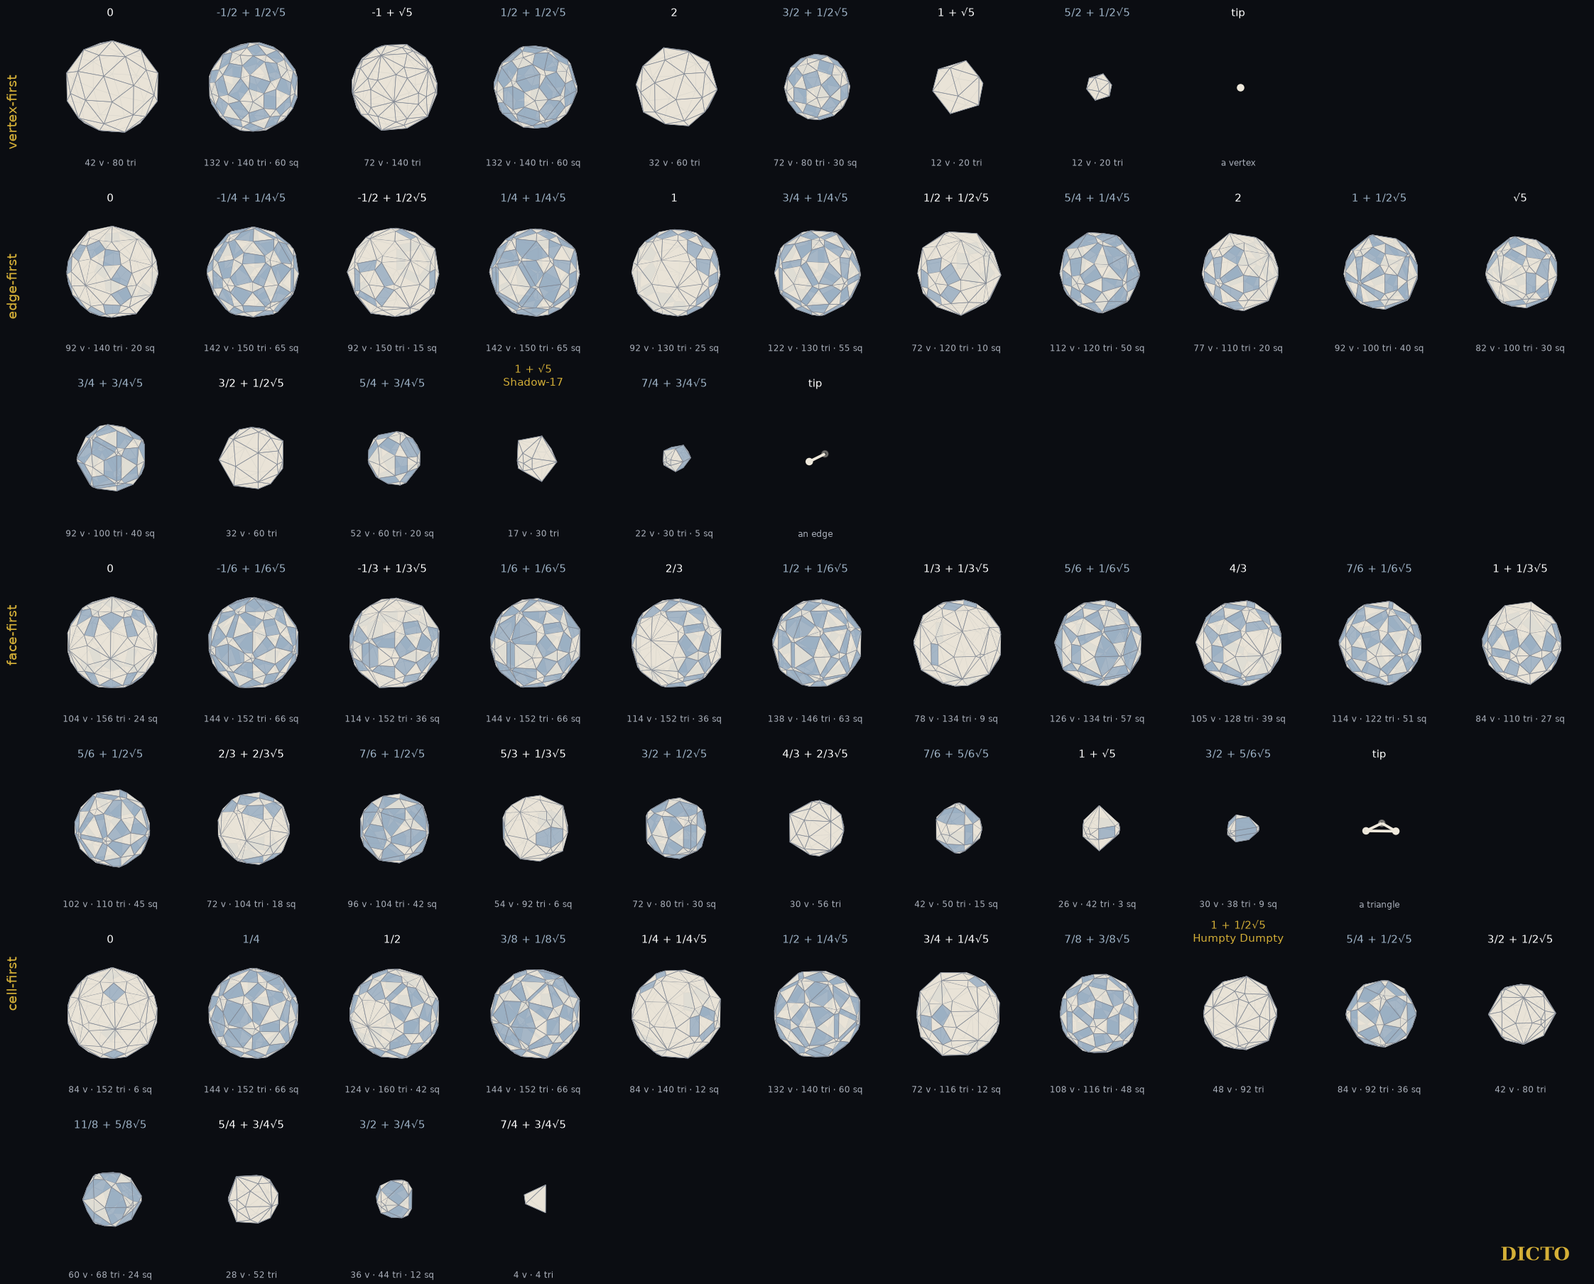
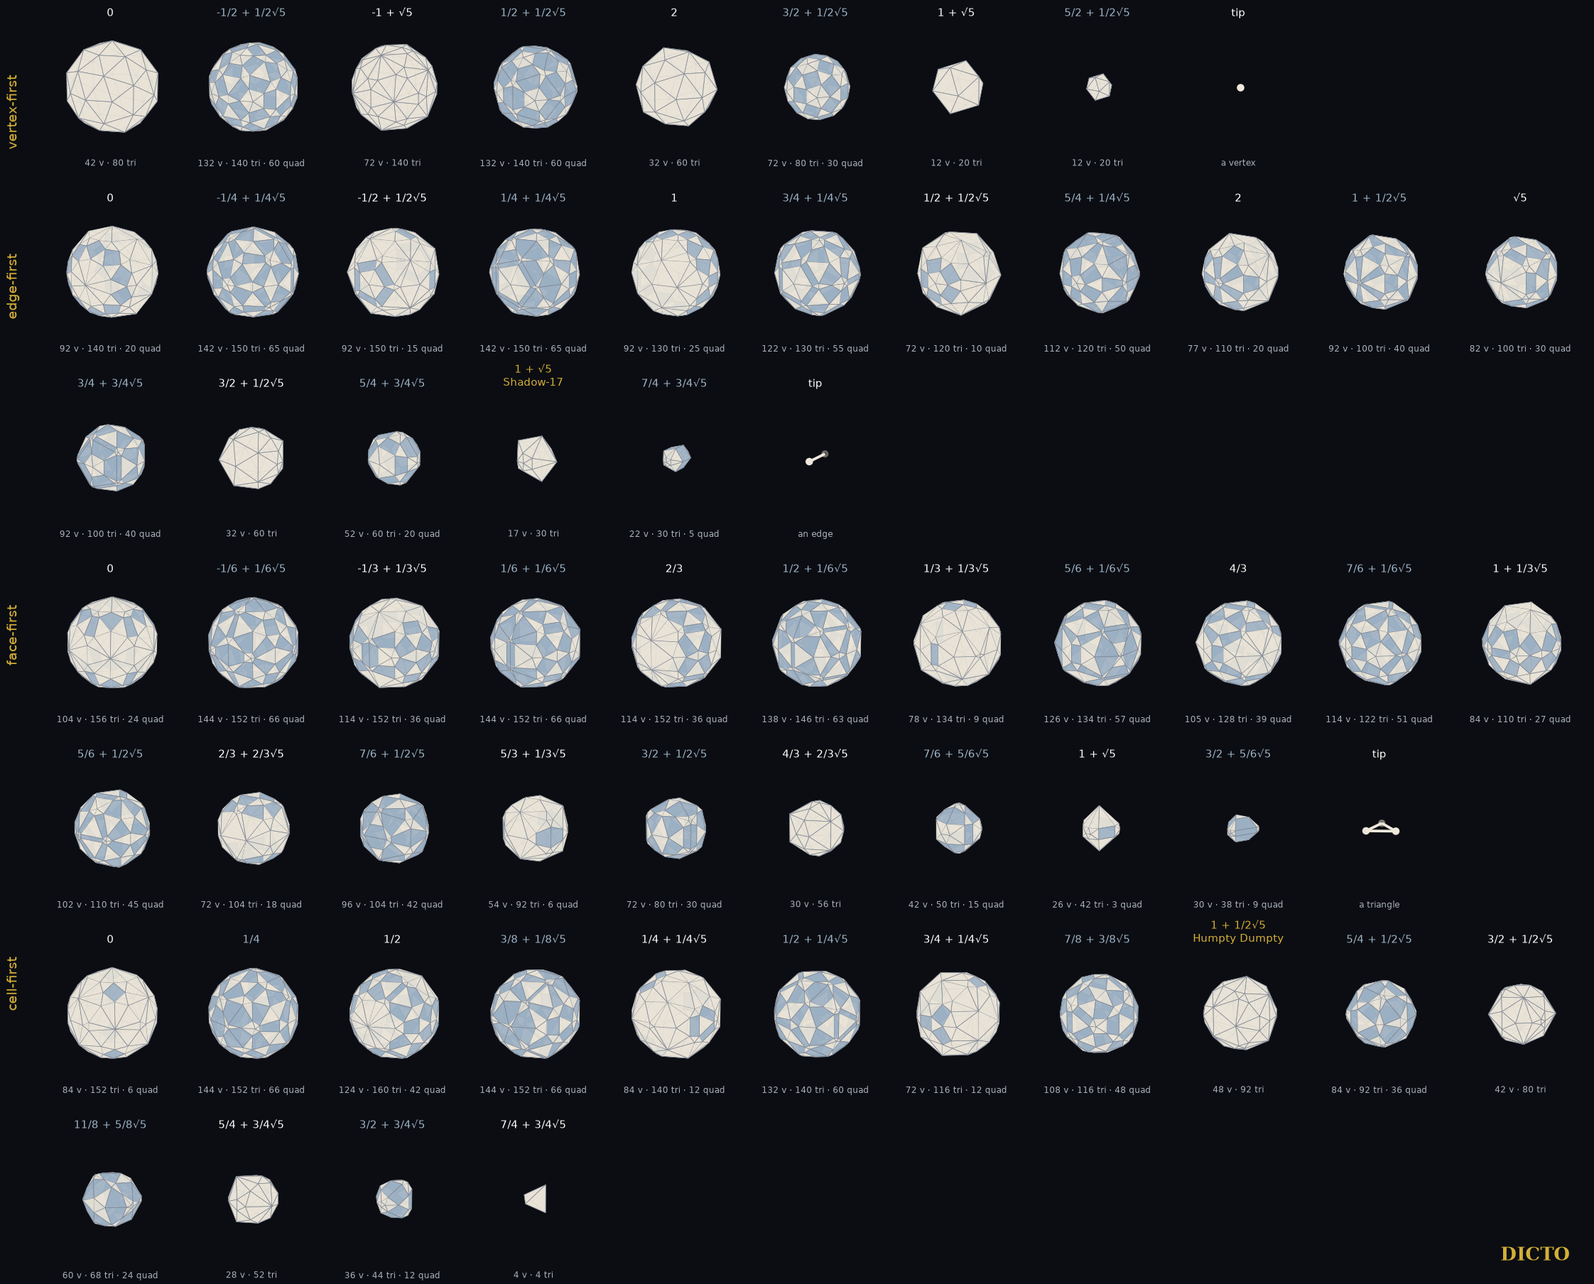
#63 draft: Fable check applied; four-sided faces, not squares

Changed region(s): [[0.2184, 0.9912, 0.2807, 1.0], [0.0312, 0.9912, 0.0936, 1.0]]

diff --git a/papers/white-queen-600/paper.src.html b/papers/white-queen-600/paper.src.html
@@ -12,26 +12,26 @@
 Paper #63 · Version 1 · __DATE__ · __DOI__ · Licence CC BY-SA 4.0<br>
 The ideas are DICTO's. Computation and proofs with Claude (Anthropic).</div>
 
-<div class="abstract"><b>Abstract.</b> The 600-cell is the four-dimensional solid built from 600 regular tetrahedra, twenty round every vertex. DICTO asked for a definitive, proved picture of it. We give a complete exact atlas of its three-dimensional slices in its four main directions (through a vertex, the middle of an edge, the centre of a triangle and the centre of a cell). Every slice is computed in exact numbers a + b√5. Between two neighbouring vertex heights a slice keeps one pattern of faces, so one cut per gap, together with the cuts at the vertex heights, gives every slice there is: 62 patterns on one side of the centre (9, 17, 21 and 15 in the four directions). Exactly twelve of them are made only of triangles, and we name each one. The largest slices have 144 vertices. With the four shadows of the 600-cell, this completes the atlas. Its most unusual member is Humpty Dumpty, the 48-vertex slice rebuilt with all 92 triangles equilateral: one of six large slices that ask for an equal-edged form, and the only one of the six that has one with its full symmetry.</div>
+<div class="abstract"><b>Abstract.</b> The 600-cell is the four-dimensional solid built from 600 regular tetrahedra, twenty round every vertex. DICTO asked for a definitive, proved picture of it. We give a complete exact atlas of its three-dimensional slices in its four main directions (through a vertex, the middle of an edge, the centre of a triangle and the centre of a cell). Every slice is computed exactly, in numbers of the form a + b√5 with a and b rational. Between two neighbouring vertex heights a slice keeps one pattern of faces, so the cuts at the vertex heights and one cut inside each gap give every slice pattern there is: 62 patterns on one side of the centre (9, 17, 21 and 15 in the four directions). Exactly twelve are made only of triangles, and we identify each one. The largest slices have 144 vertices. With the four shadows of the 600-cell, this completes the atlas. Its most unusual member is Humpty Dumpty: the 48-vertex slice rebuilt with all 92 of its triangles equilateral. Six large all-triangle slices invite such a rebuild; the 48-vertex slice is the only one of the six that has an equal-edged form with its full symmetry.</div>
 
 <h2>1. Begin at the beginning</h2>
 <blockquote>“Begin at the beginning,” the King said gravely, “and go on till you come to the end: then stop.” — <i>Alice's Adventures in Wonderland</i>, ch. 12</blockquote>
-<p>That is the plan of this paper: start at the centre of the 600-cell and cut it, height by height, until the cut leaves it at the far tip. DICTO's question was whether the 600-cell could be assembled into a definitive picture, every part proved. Our previous paper (#62, Shadows of the Fourth Dimension) asked which of its slices are deltahedra; here we map all of them. The title is DICTO's: the 600-cell belongs to the White Queen of <i>Through the Looking-Glass</i>, who practised believing impossible things (§5).</p>
+<p>That is the plan of this paper: start at the centre of the 600-cell and cut it, height by height, until the cut leaves it at the tip. DICTO's question was whether the 600-cell could be assembled into a definitive picture, every part proved. Our previous paper (#62, Shadows of the Fourth Dimension) asked which of its slices have only triangular faces, and which of those can be rebuilt with every edge equal; here we map every slice. The title is DICTO's: the 600-cell belongs to the White Queen of <i>Through the Looking-Glass</i>, who practised believing impossible things (§5).</p>
 
 <h2>2. Method</h2>
-<p>The 600-cell is taken with its 120 vertices at distance 2 from the centre: the 8 permutations of (±2, 0, 0, 0), the 16 points (±1, ±1, ±1, ±1) and the 96 even permutations of (±φ, ±1, ±1/φ, 0), where φ = (1+√5)/2. Its edges have length √5 − 1. All arithmetic is exact in ℚ(√5). For each direction d we sort the vertices by height x·d. A slice at height h is the convex hull of the vertices at that height and of the points where edges cross it; hulls are proposed in floating point and every face is then verified exactly.</p>
-<div class="thm"><b>Lemma (one pattern per gap).</b> Between two neighbouring vertex heights, the slice has the same pattern of faces at every height. Reason: no vertex lies in the open gap, so the same edges cross every cutting space in the gap, and the same triangles and tetrahedra of the 600-cell are cut. Hence the cuts at the vertex heights and one cut inside each gap give every slice pattern.</div>
-<p>Heights are measured as x·d, with d the vertex, edge midpoint, triangle centre or cell centre itself, so heights compare within one direction only. The 600-cell is centrally symmetric, so the far half of each direction mirrors the near half; we list the near half, from the centre to the tip.</p>
+<p>The 600-cell is taken with its 120 vertices at distance 2 from the centre: the 8 permutations of (±2, 0, 0, 0), the 16 points (±1, ±1, ±1, ±1) and the 96 even permutations of (±φ, ±1, ±1/φ, 0), where φ = (1+√5)/2. Its edges have length √5 − 1. All arithmetic is exact in ℚ(√5). For each direction d, the height of a point x is x·d, and we sort the vertices by height. The slice at height h is the convex hull of the vertices at that height together with the points where edges of the 600-cell cross that height. Hulls are proposed in floating point, and every face is then verified exactly.</p>
+<div class="thm"><b>Lemma (one pattern per gap).</b> Let h₁ &lt; h₂ be two neighbouring vertex heights. At every height strictly between them the slice has the same pattern of faces. <i>Proof.</i> An edge of the 600-cell crosses the cut at height h exactly when its two ends lie on opposite sides of h. No vertex has a height strictly between h₁ and h₂, so as h moves through the gap no vertex changes side, and the same edges cross the cut. Inside the gap each face of the slice is the cross-section of one tetrahedral cell, with its corners at the crossing points on that cell's edges, and two faces share an edge of the slice exactly when their cells share a triangle that is cut. Which cells and triangles are cut, and through which edges, is therefore the same throughout the gap, and so is the pattern of faces. Hence the cuts at the vertex heights and one cut inside each gap give every slice pattern. The lemma is about the pattern only: edge lengths and angles change with the height.</div>
+<p>In each direction, d is the vertex, the edge midpoint, the triangle centre or the cell centre itself, not a unit vector, so heights compare within one direction only. The 600-cell is centrally symmetric, so the far half of each direction mirrors the near half; we list the near half, from the centre to the tip.</p>
 
 <h2>3. The atlas</h2>
-<figure><img src="figures/atlas600-page.png"><figcaption>Figure 1. Every slice pattern of the 600-cell, from the centre to the tip, read left to right and row by row, in the four directions; one scale throughout. White labels: slices at a vertex height; blue labels: the pattern that holds over the whole gap to the next height. Triangles ivory, squares blue. Gold: Shadow-17 and Humpty Dumpty.</figcaption></figure>
+<figure><img src="figures/atlas600-page.png"><figcaption>Figure 1. Every slice pattern of the 600-cell, from the centre to the tip, read left to right and row by row, in the four directions; one scale throughout. White labels: slices at a vertex height; blue labels: the pattern that holds over the whole gap to the next height. Triangles ivory, four-sided faces blue. Gold: Shadow-17 and Humpty Dumpty.</figcaption></figure>
 <table><tr><th>Direction</th><th>Vertex heights (centre to tip)</th><th>Gaps</th><th>Slice patterns</th><th>Tip</th><th>Largest slice</th></tr>
 <tr><td>vertex-first</td><td>5</td><td>4</td><td>9</td><td>a vertex</td><td>132 vertices</td></tr>
 <tr><td>edge-first</td><td>9</td><td>8</td><td>17</td><td>an edge</td><td>142 vertices</td></tr>
 <tr><td>face-first</td><td>11</td><td>10</td><td>21</td><td>a triangle</td><td>144 vertices</td></tr>
 <tr><td>cell-first</td><td>8</td><td>7</td><td>15</td><td>a tetrahedron</td><td>144 vertices</td></tr>
 <tr><td><b>total</b></td><td></td><td></td><td><b>62</b></td><td></td><td></td></tr></table>
-<p>Every slice has only triangles and squares as faces. Each face is either the cross-section of one tetrahedral cell, a triangle or a square, or a triangle of the 600-cell lying in the cut. A square appears exactly where the cut crosses a cell through four of its edges.</p>
+<p>Every slice has only triangles and four-sided faces. Each face is the cross-section of one tetrahedral cell, a triangle or a four-sided face, or else a triangle of the 600-cell lying in the cut. A four-sided face appears exactly where the cut crosses a cell through four of its edges.  Only a few of them are squares (46 of the 1636 in the atlas); the rest are rectangles, isosceles trapezia and general quadrilaterals.</p>
 
 <h2>4. The twelve all-triangle slices</h2>
 <div class="thm"><b>Theorem.</b> Exactly twelve of the 62 slice patterns are made only of triangles: eleven at vertex heights and one inside a gap.</div>
@@ -39,36 +39,36 @@ The ideas are DICTO's. Computation and proofs with Claude (Anthropic).</div>
 <tr><td>vertex-first</td><td>0 (centre)</td><td>42, 80</td><td>the central slice; equal-edged form: the 12-dented icosahedron (#62)</td></tr>
 <tr><td>vertex-first</td><td>√5 − 1</td><td>72, 140</td><td>no equal-edged form with its full symmetry (#62)</td></tr>
 <tr><td>vertex-first</td><td>2</td><td>32, 60</td><td>equal-edged forms: excavated and augmented dodecahedron (#62)</td></tr>
-<tr><td>vertex-first</td><td>1 + √5</td><td>12, 20</td><td>a regular icosahedron (vertex layer)</td></tr>
-<tr><td>vertex-first</td><td>the gap from 1 + √5 to 4</td><td>12, 20</td><td>a regular icosahedron (the vertex figure)</td></tr>
+<tr><td>vertex-first</td><td>1 + √5</td><td>12, 20</td><td>a regular icosahedron: the twelve neighbours of the tip vertex</td></tr>
+<tr><td>vertex-first</td><td>the gap from 1 + √5 to 4</td><td>12, 20</td><td>a regular icosahedron: the vertex figure, cut across the twelve edges that meet the tip</td></tr>
 <tr><td>edge-first</td><td>(3+√5)/2</td><td>32, 60</td><td>no equal-edged form with its full symmetry (#62)</td></tr>
 <tr><td>edge-first</td><td>1 + √5</td><td>17, 30</td><td>Shadow-17: two J11 glued on their pentagons (#62)</td></tr>
 <tr><td>face-first</td><td>(4+2√5)/3</td><td>30, 56</td><td>no equal-edged form with its full symmetry (#62)</td></tr>
 <tr><td>cell-first</td><td>1 + √5/2</td><td>48, 92</td><td><b>Humpty Dumpty</b> (§6)</td></tr>
 <tr><td>cell-first</td><td>(3+√5)/2</td><td>42, 80</td><td>no equal-edged form with its full symmetry (#62)</td></tr>
 <tr><td>cell-first</td><td>(5+3√5)/4</td><td>28, 52</td><td>no equal-edged form with its full symmetry (#62)</td></tr>
-<tr><td>cell-first</td><td>(7+3√5)/4 (tip)</td><td>4, 4</td><td>a regular tetrahedron (the far cell)</td></tr></table>
-<p>All other slices contain squares. The two regular icosahedra and the tetrahedron are the 600-cell's own vertex figure and cell; the other nine are the deltahedral patterns studied in #62.</p>
+<tr><td>cell-first</td><td>(7+3√5)/4 (tip)</td><td>4, 4</td><td>a regular tetrahedron: the cell at the tip</td></tr></table>
+<p>The other 50 slice patterns all contain four-sided faces. Of the twelve, the two regular icosahedra and the tetrahedron are the 600-cell's own vertex figure and cell; the other nine are the all-triangle patterns studied in #62.</p>
 
 <h2>5. Six impossible things</h2>
 <blockquote>“Why, sometimes I've believed as many as six impossible things before breakfast.” — the White Queen, <i>Through the Looking-Glass</i>, ch. 5</blockquote>
-<p>Six of the all-triangle slices are large (28 to 72 vertices) and match no known deltahedron: the slices with 72, 32 (edge-first), 30, 28, 42 and 48 vertices. #62 asked of each whether it can be rebuilt with every edge equal while keeping its symmetry, and solved all six exactly. Five are impossible. The sixth, the 48-vertex slice, is possible, and is Humpty Dumpty. Equal-edged forms of the five with less than their full symmetry have not been searched; they are queued as a separate study.</p>
+<p>Six of the all-triangle slices are large, with 28 to 72 vertices, and match none of the eight convex deltahedra: the slices with 72 (vertex-first), 32 (edge-first), 30 (face-first), and 48, 42 and 28 (cell-first) vertices. #62 asked of each whether it can be rebuilt with every edge equal while keeping its full symmetry, and solved all six exactly. The 48-vertex slice can be: its equal-edged form is Humpty Dumpty. The other five cannot. Forms of those five with less than their full symmetry are not excluded by #62; they are queued as a separate study.</p>
 
 <h2>6. Humpty Dumpty</h2>
 <figure><img src="figures/shadows600.png"><figcaption>Figure 2. Top: the four shadows of the 600-cell. Bottom: the 48-vertex cell-first slice (convex, edges unequal) and Humpty Dumpty, the same 92 triangles with every edge equal.</figcaption></figure>
 <blockquote>“All the King's horses and all the King's men / Couldn't put Humpty Dumpty in his place again.” — <i>Through the Looking-Glass</i>, ch. 6</blockquote>
-<p>The cell-first slice at height 1 + √5/2 is a convex, egg-like solid of 48 vertices and 92 triangles, with edges in a ratio up to (5+√5)/2. Rebuilt with all edges equal and its tetrahedral symmetry kept, it has exactly one form: <b>Humpty Dumpty</b> (DICTO's name; Slice-48 in #62). It has 138 equal edges and dihedral angles from 81.75° to 243.20°, so it folds in and out where the egg was smooth; its nearest non-adjacent parts are 0.069 apart at edge 1, and its embedding was confirmed with exact orientation tests. It is put back together, but not in its old place: the equal triangles force a new shape.</p>
+<p>The cell-first slice at height 1 + √5/2 is a convex, egg-like solid of 48 vertices and 92 triangles, with edge lengths in ratios up to (5+√5)/2 ≈ 3.62. Rebuilt with all edges equal and its tetrahedral symmetry kept, it has exactly one form: <b>Humpty Dumpty</b> (DICTO's name; Slice-48 in #62). It has 138 equal edges and dihedral angles from 81.75° to 243.20°; the angles above 180° are creases folded inwards, so the solid folds in and out where the egg was smooth. It does not pass through itself: at edge length 1 its nearest non-adjacent parts are 0.069 apart, and the embedding was confirmed with exact orientation tests (#62). It is put back together, but not in its old place: the equal triangles force a new shape.</p>
 <blockquote>“When I use a word,” Humpty Dumpty said in rather a scornful tone, “it means just what I choose it to mean—neither more nor less.” — ch. 6</blockquote>
 <p>We use the name in that spirit: Humpty Dumpty means exactly this solid.</p>
 
 <h2>7. The four shadows</h2>
-<p>The shadows (projections along the four directions) are convex. The vertex-first shadow has 42 vertices and 80 triangles, the same pattern as the central slice (#62). The edge-first shadow has 52 vertices, 60 triangles and 20 squares; the face-first shadow 56 vertices, 84 triangles and 12 squares; the cell-first shadow 44 vertices, 72 triangles and 6 squares.</p>
+<p>The shadows are the projections of the 600-cell along the four directions, and all four are convex. The vertex-first shadow has 42 vertices and 80 triangles, the same pattern as the central slice (#62). The edge-first shadow has 52 vertices, 60 triangles and 20 four-sided faces; the face-first shadow 56 vertices, 84 triangles and 12 four-sided faces; the cell-first shadow 44 vertices, 72 triangles and 6 four-sided faces.</p>
 
 <h2>8. Prior art and credit</h2>
-<p>Alicia Boole Stott (1900; encouraged by P. H. Schoute) studied series of three-dimensional sections of the regular four-dimensional polytopes and made complete sets of models of the sections of the 600-cell and the 120-cell; two sets of 600-cell section models are kept at the University of Groningen, and a further set is at the Faulkes Institute, Cambridge. Coxeter's <i>Regular Polytopes</i> treats the polytopes and the vertex-first sections. The directions and number of sections in Boole Stott's series are not stated in the sources we checked, and we did not read her paper; her work is the precedent for this atlas. What we did not find in the sources checked: the exact atlas in all four directions with the gaps between vertex heights, the list of all-triangle slices, and Humpty Dumpty.</p>
+<p>Alicia Boole Stott (1900; encouraged by P. H. Schoute) studied series of three-dimensional sections of the regular four-dimensional polytopes and made complete sets of models of the sections of the 600-cell and the 120-cell; two sets of 600-cell section models are kept at the University of Groningen, and a further set is at the Faulkes Institute, Cambridge. Coxeter's <i>Regular Polytopes</i> treats the polytopes and the vertex-first sections. The directions and number of sections in Boole Stott's series are not stated in the sources we checked, and we did not read her paper; her work is the precedent for this atlas. We did not find in the sources checked: an exact atlas in all four directions including the gaps between vertex heights, the list of all-triangle slices, or Humpty Dumpty.</p>
 <p class="prec"><b>Sources checked</b> (27 October 2026). <i>Web</i>: Wikipedia, "Alicia Boole Stott"; G. W. Hart, "Models of sections of the 600-cell, made by Alicia Boole Stott" (math.stonybrook.edu); search for the 1900 paper (Proofwiki, MacTutor); Wikipedia, "600-cell"; Wolfram Demonstrations, "Sections of the 16-Cell"; arXiv 1912.06156, "The Geometry of H4 Polytopes" (title only); KNAW digital library (dwc.knaw.nl, title page only). <i>Library</i>: the Dodgson texts (Gutenberg) for every quotation, checked word for word. Coxeter, <i>Regular Polytopes</i> (3rd ed. 1973), cited for its well-known contents, not re-read.</p>
 
 <h2>9. Conclusion</h2>
-<p>The 600-cell has 62 slice patterns on each side of its centre in its four main directions, all now computed exactly; twelve are made only of triangles, and each of them is identified. Together with the four shadows this is a complete, proved atlas of the White Queen's solid. Among the six large all-triangle slices that challenge an equal-edged rebuild, Humpty Dumpty is the one that can be put back together.</p>
+<p>The 600-cell has 62 slice patterns between its centre and its tips in its four main directions (the far half mirrors the near half), all computed exactly here; exactly twelve are made only of triangles, and each is identified. With the four shadows this is a complete, proved atlas of the White Queen's solid. Of the six large all-triangle slices, the 48-vertex slice is the one that can be put back together with equal edges: Humpty Dumpty.</p>
 <p class="prec"><b>Data and code.</b> Study 2026-10-27-white-queen-600 (atlas600.py, render_atlas.py; data/atlas600.json, atlas600.pkl), using the exact modules of study 2026-10-27-4d-shadows (q5.py, polytopes.py, shadows.py) and its Slice-48 data (form_V48_full_36.json). References: DICTO, Shadows of the Fourth Dimension (#62), DICTO DOI 10.5281/zenodo.23687223. Quotations: L. Carroll, <i>Alice's Adventures in Wonderland</i> (1865), <i>Through the Looking-Glass</i> (1871), Project Gutenberg texts.</p>
 </body></html>

diff --git a/studies/2026-10-27-white-queen-600/scripts/render_atlas.py b/studies/2026-10-27-white-queen-600/scripts/render_atlas.py
@@ -64,13 +64,13 @@ def atlas():
                 continue
             k = next(a for a in A if a["item"]["direction"] == d and a["item"]["height"] == o["height"])
             fs = o["face_sizes"]
-            sub = f"{o['V']} v · {fs.get('3', 0)} tri" + (f" · {fs['4']} sq" if fs.get("4") else "")
+            sub = f"{o['V']} v · {fs.get('3', 0)} tri" + (f" · {fs['4']} quad" if fs.get("4") else "")
             panel(ax, k["fV"], k["faces"], o["height"], sub, NAMED.get((d, o["height"])) if o["at_vertex_layer"] else None,
                   o["at_vertex_layer"])
         fig.text(0.006, 1 - (r + 0.5) / 4 * 0.87 - 0.075, d, color=GOLD, fontsize=10, rotation=90, va="center")
     fig.suptitle("The White Queen 600-cell: every slice, from the centre out to the tip", color="white", fontsize=14, y=0.988)
     fig.text(0.5, 0.958, "white labels: slices at a vertex height (all triangles where the pattern allows) · blue labels: the slice "
-             "type that holds over the whole gap to the next height · triangles ivory, squares blue · one scale · exact in a + b√5 · "
+             "type that holds over the whole gap to the next height · triangles ivory, four-sided faces blue · one scale · exact in a + b√5 · "
              "the far half mirrors the near half", color="#aab0bb", fontsize=8, ha="center")
     fig.subplots_adjust(left=0.02, right=0.995, top=0.935, bottom=0.02, wspace=0.0, hspace=0.3)
     mark(fig)
@@ -97,7 +97,7 @@ def atlas_paper(wrap=11):
                 continue
             k = next(a for a in A if a["item"]["direction"] == d and a["item"]["height"] == o["height"])
             fs = o["face_sizes"]
-            sub = f"{o['V']} v · {fs.get('3', 0)} tri" + (f" · {fs['4']} sq" if fs.get("4") else "")
+            sub = f"{o['V']} v · {fs.get('3', 0)} tri" + (f" · {fs['4']} quad" if fs.get("4") else "")
             panel(ax, k["fV"], k["faces"], o["height"], sub, NAMED.get((d, o["height"])) if o["at_vertex_layer"] else None,
                   o["at_vertex_layer"])
         if label:
